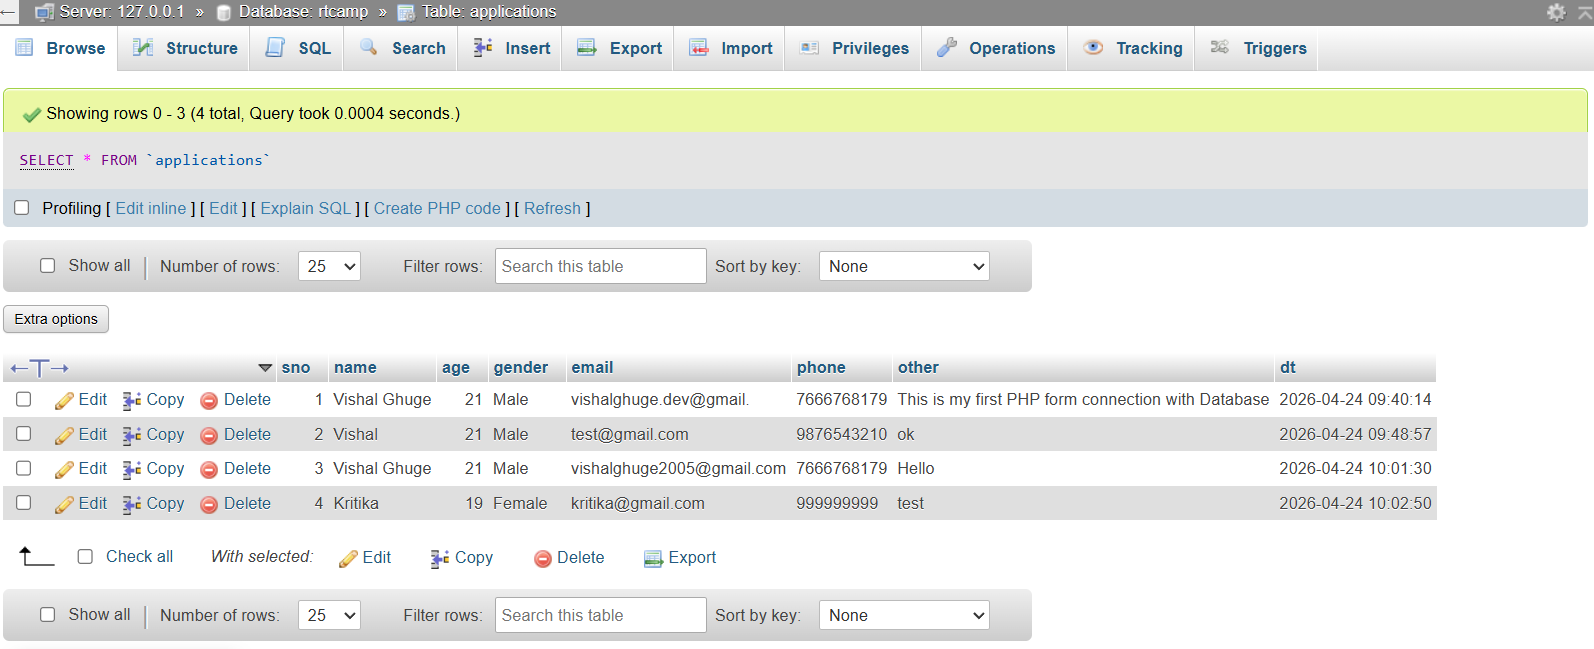
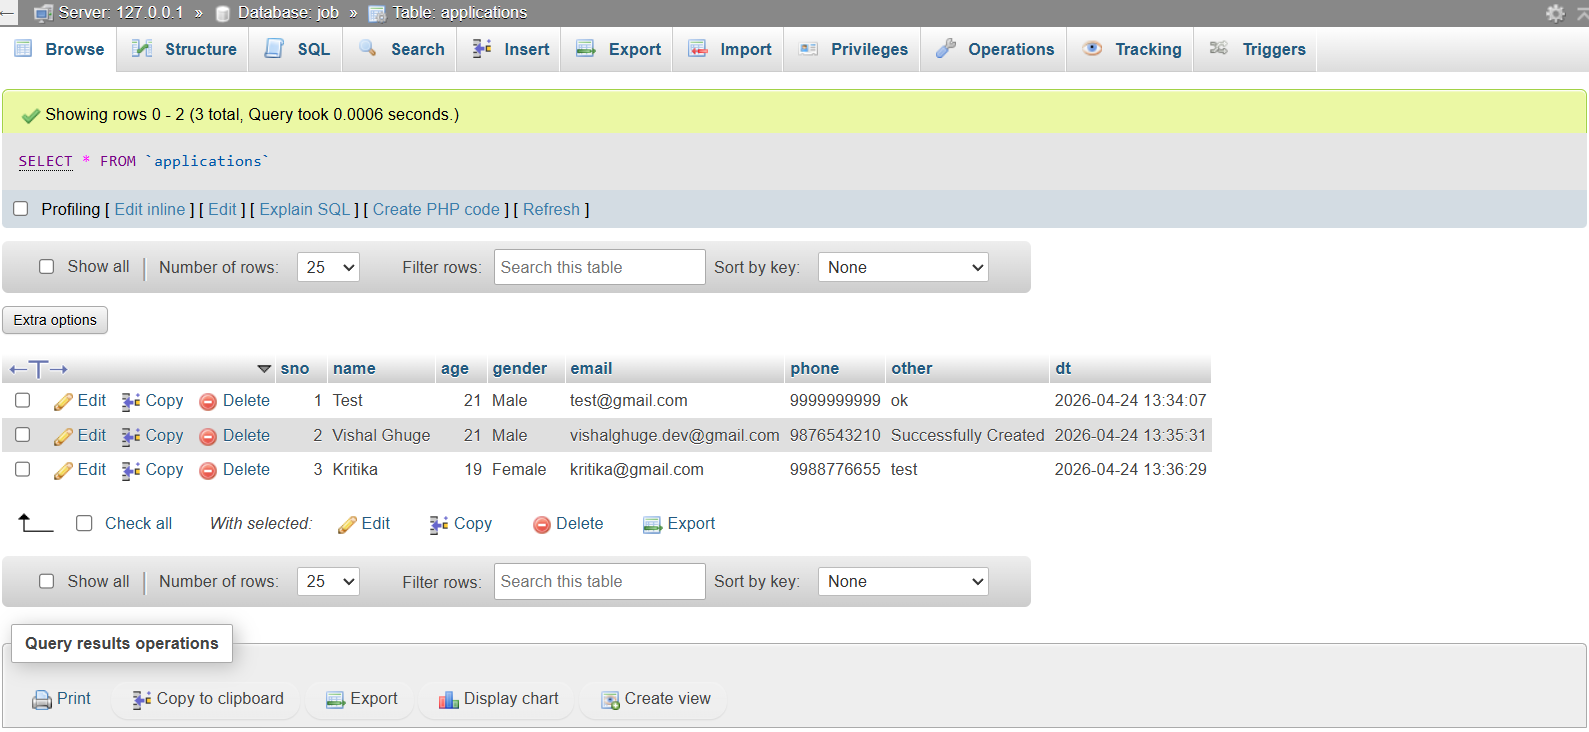
refactor: update naming and README for professional clarity

diff --git a/02-forms-db/index.php b/02-forms-db/index.php
@@ -6,7 +6,7 @@ if(isset($_POST['name'])){
     $server = "localhost";
     $username = "root";
     $password = "";
-    $database = "rtcamp";
+    $database = "job";
 
     // Create connection
     $con = new mysqli($server, $username, $password, $database);
@@ -58,14 +58,14 @@ if(isset($_POST['name'])){
 <head>
     <meta charset="UTF-8">
     <meta name="viewport" content="width=device-width, initial-scale=1.0">
-    <title>rtCamp Associate Software Engineer Application</title>
+    <title>Application Form System</title>
     <link href="https://fonts.googleapis.com/css?family=Roboto|Sriracha&display=swap" rel="stylesheet">
     <link rel="stylesheet" href="style.css">
 </head>
 <body>
     <div class="container">
-        <h1>rtCamp Associate Software Engineer Application</h1>
-        <p>Enter your details and submit this form</p>
+        <h1>Application Form</h1>
+        <p>Please enter your details and submit the form.</p>
 
         <?php
         if($insert){

diff --git a/02-forms-db/README.md b/02-forms-db/README.md
@@ -1,3 +1,100 @@
+# PHP MySQL Application Form
+
+A backend-focused form handling project built to practice secure data handling using PHP and MySQL.
+## Features
+
+- HTML form submission handled via PHP
+- Secure data storage using prepared statements (prevents SQL injection)
+- Input validation (required fields and email format)
+- Duplicate email prevention via a `UNIQUE` database constraint
+- Clear success and error feedback for the user
+## Tech Stack
+
+- PHP
+- MySQL (via XAMPP / phpMyAdmin)
+- HTML & CSS
+## Project Structure
+
+```
+02-forms-db/
+├── index.php      # Form UI, validation logic, and database operations
+├── style.css      # Basic form styling
+└── README.md      # Project documentation
+```
+## How It Works
+
+1. User fills out the form (name, age, gender, email, phone, other info)
+2. On submit, a POST request is sent to `index.php`
+3. PHP validates the input (checks required fields and email format)
+4. If valid, a prepared statement inserts the data into the `applications` table
+5. If the email already exists, a duplicate error is shown
+6. On success, a confirmation message is displayed to the user
+## Screenshots
+
+### 1. Empty Form
+*The application form as seen by a new user.*
+
+![Empty Form](screenshots/form-empty.png)
+
+---
+
+### 2. Successful Submission
+*Confirmation message after a valid form submission.*
+
+![Successful Submission](screenshots/form-success.png)
+
+---
+
+### 3. Database Entry (phpMyAdmin)
+*Submitted data stored in the `applications` table.*
+
+![Database Entry](screenshots/db-entry.png)
+
+---
+## Setup Instructions
+
+### 1. Install XAMPP
+Download from [https://www.apachefriends.org/](https://www.apachefriends.org/) and install.
+
+### 2. Start Services
+Open the XAMPP Control Panel and start **Apache** and **MySQL**.
+
+### 3. Set Up the Database
+- Go to [http://localhost/phpmyadmin](http://localhost/phpmyadmin)
+- Create a database (e.g., `application_form`)
+- Create an `applications` table with the following columns:
+
+| Column   | Type         | Notes                  |
+|----------|--------------|------------------------|
+| id       | INT          | Primary key, auto increment |
+| name     | VARCHAR(100) |                        |
+| age      | INT          |                        |
+| gender   | VARCHAR(20)  |                        |
+| email    | VARCHAR(100) | UNIQUE constraint      |
+| phone    | VARCHAR(20)  |                        |
+| other    | TEXT         |                        |
+| dt       | DATETIME     | Filled by `NOW()`      |
+
+### 4. Run the Project
+- Place the project folder inside `htdocs`:
+  ```
+  C:/xampp/htdocs/php-foundations/02-forms-db/
+  ```
+- Open in browser:
+  ```
+  http://localhost/php-foundations/02-forms-db/index.php
+  ```
+## Key Learnings
+
+- Connecting PHP to MySQL using MySQLi
+- Using prepared statements to prevent SQL injection
+- Validating and sanitizing user input before database insertion
+- Enforcing data integrity with a `UNIQUE` constraint on email
+## Future Improvements
+
+- UI enhancements
+- Separate backend logic
+- Production deployment
 # rtCamp Associate Software Engineer — Application Form
 
 A PHP + MySQL project built as part of my backend foundations practice. Users submit an application form, and the data is securely stored in a MySQL database.
